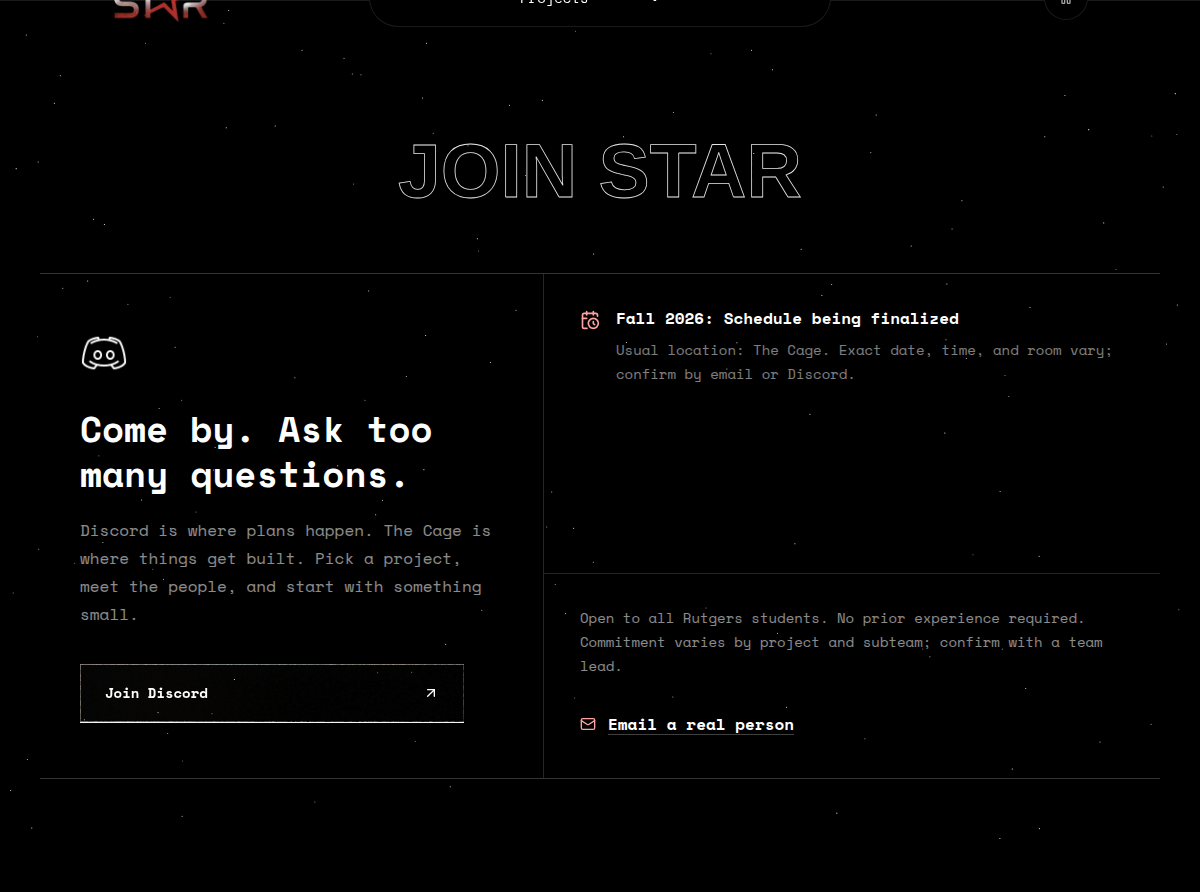
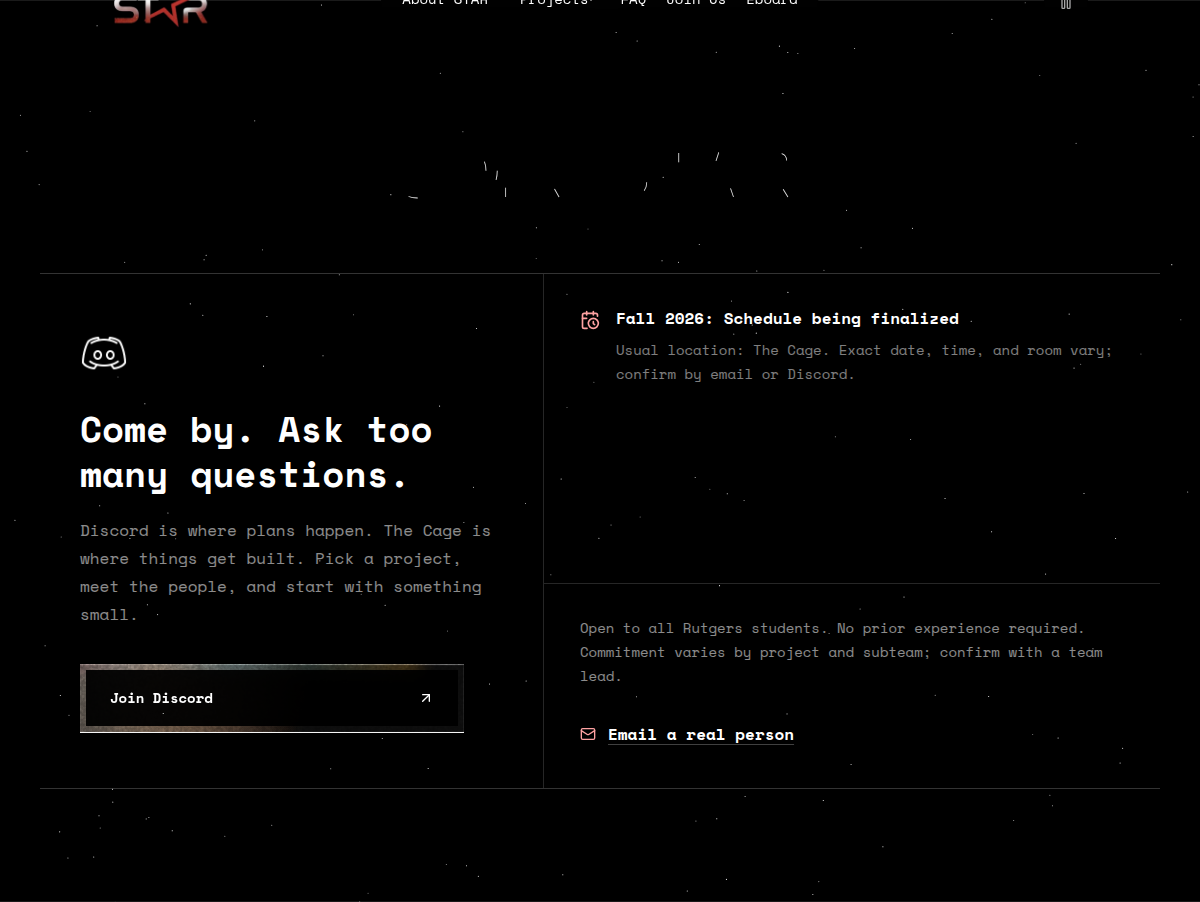
fix navbar alignment and noise visibility

diff --git a/src/components/ui/navigation-menu.tsx b/src/components/ui/navigation-menu.tsx
@@ -73,9 +73,9 @@ function NavigationMenuTrigger({
       className={cn(navigationMenuTriggerStyle(), "group", className)}
       {...props}
     >
-      {children}{" "}
+      <span className="-translate-y-1">{children}</span>{" "}
       <ChevronDownIcon
-        className="absolute right-3 top-1/2 size-3 -translate-y-1/2 transition duration-300 group-data-[state=open]:rotate-180"
+        className="absolute right-3 top-[calc(50%-4px)] size-3 -translate-y-1/2 transition duration-300 group-data-[state=open]:rotate-180"
         aria-hidden="true"
       />
     </NavigationMenuPrimitive.Trigger>

diff --git a/src/routes/home/JoinUsSection.tsx b/src/routes/home/JoinUsSection.tsx
@@ -35,9 +35,9 @@ const JoinUsSection = () => {
               <NoiseBackground
                 animating={!reducedMotion}
                 gradientColors={["#9D2626", "#38BDF8", "#F5A524"]}
-                noiseIntensity={0.38}
+                noiseIntensity={0.72}
                 speed={0.08}
-                containerClassName="w-full max-w-sm rounded-none bg-transparent p-[2px]"
+                containerClassName="w-full max-w-sm rounded-none bg-neutral-950 p-[6px]"
                 className="rounded-none"
               >
                 <a

diff --git a/changes/20-visual-direction-lab/R20.3-production-detail-refinements.md b/changes/20-visual-direction-lab/R20.3-production-detail-refinements.md
@@ -20,9 +20,9 @@ caption, E-board portraits, partner rail/assets, global footer, design records
 
 ## Tests
 - [x] `pnpm lint` and `pnpm build` pass.
-- [x] Desktop navigation and Projects dropdown are centered; mobile navigation remains usable.
+- [x] Desktop navigation and Projects dropdown are horizontally and vertically centered; mobile navigation remains usable.
 - [x] Project cards remain equal-size and canvas reveal appears on pointer/focus without initial Three.js loading.
-- [x] Join CTA uses the noise edge and respects reduced motion.
+- [x] Join CTA uses a clearly visible noise edge and respects reduced motion.
 - [x] Globe caption, color portraits, eight centered network items, and starred footer render at desktop/mobile widths.
 - [x] Home and project routes have no overflow, console errors, or CLS regression.
 
@@ -35,3 +35,6 @@ caption, E-board portraits, partner rail/assets, global footer, design records
   overflow 0, no console errors, and starfield coverage through the transparent footer.
 - Air Force/UNP relationship verified against primary UNP and AFRL sources; symbol provenance and
   trademark deployment note are recorded in `public/THIRD_PARTY_ASSETS.md`.
+- 2026-08-29 — Follow-up optical correction aligns Projects to the exact text baseline of every
+  adjacent nav item. Increased the Discord noise frame from 2px/0.38 opacity to 6px/0.72 opacity;
+  verified at 390, 640, 768, and 1440px with no overflow and reduced-motion suppression intact.

diff --git a/design/components.md b/design/components.md
@@ -56,7 +56,7 @@ siblings.
 Home Join flow: one open, full-width atmospheric composition, not a stack of nested cards. Use
 an editorial two-column composition, one short invitation, primary Discord + secondary email
 actions, and a single meeting-status line. Use the Discord mark directly, not a generic radio
-symbol. The Discord CTA uses NoiseBackground as a narrow textured edge, never as a large surface.
+symbol. The Discord CTA uses NoiseBackground as a visible 6px textured edge, never as a large surface.
 STAR red, hairline borders, mono labels, and generous negative space connect it to the project-page
 mission-dossier language.
 
